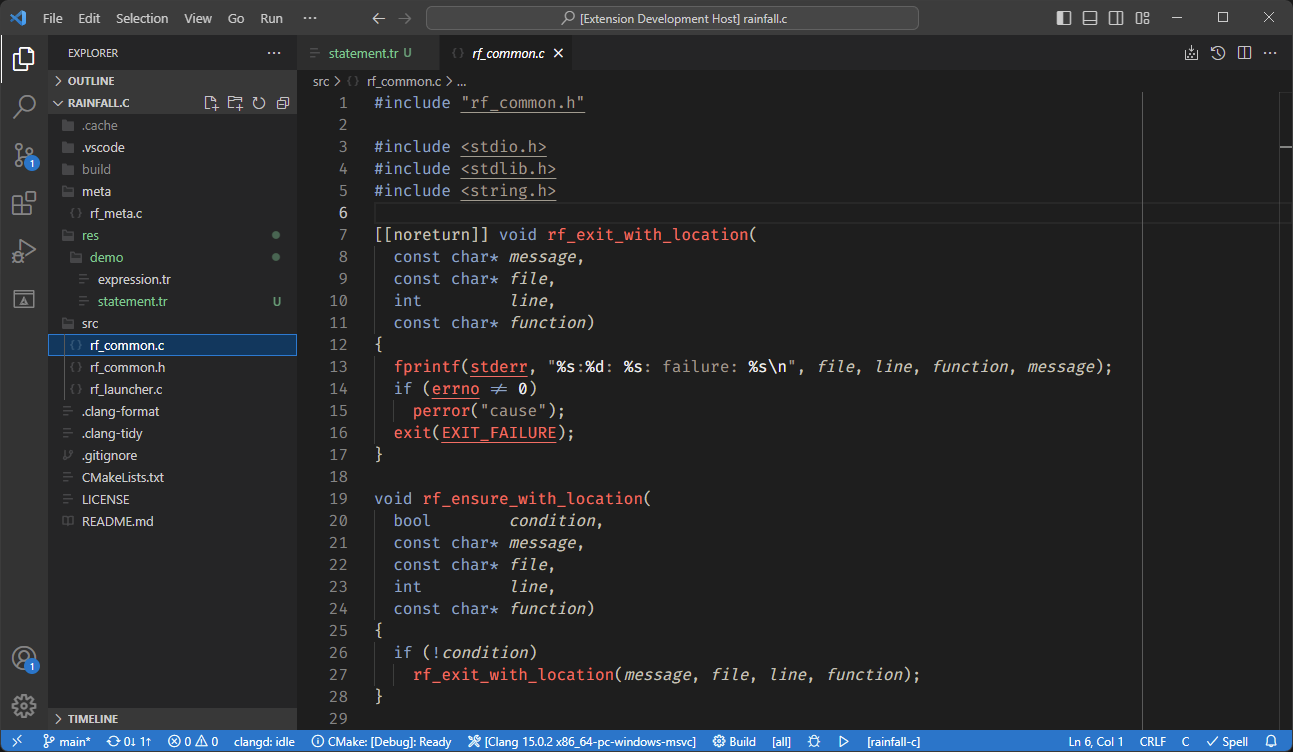
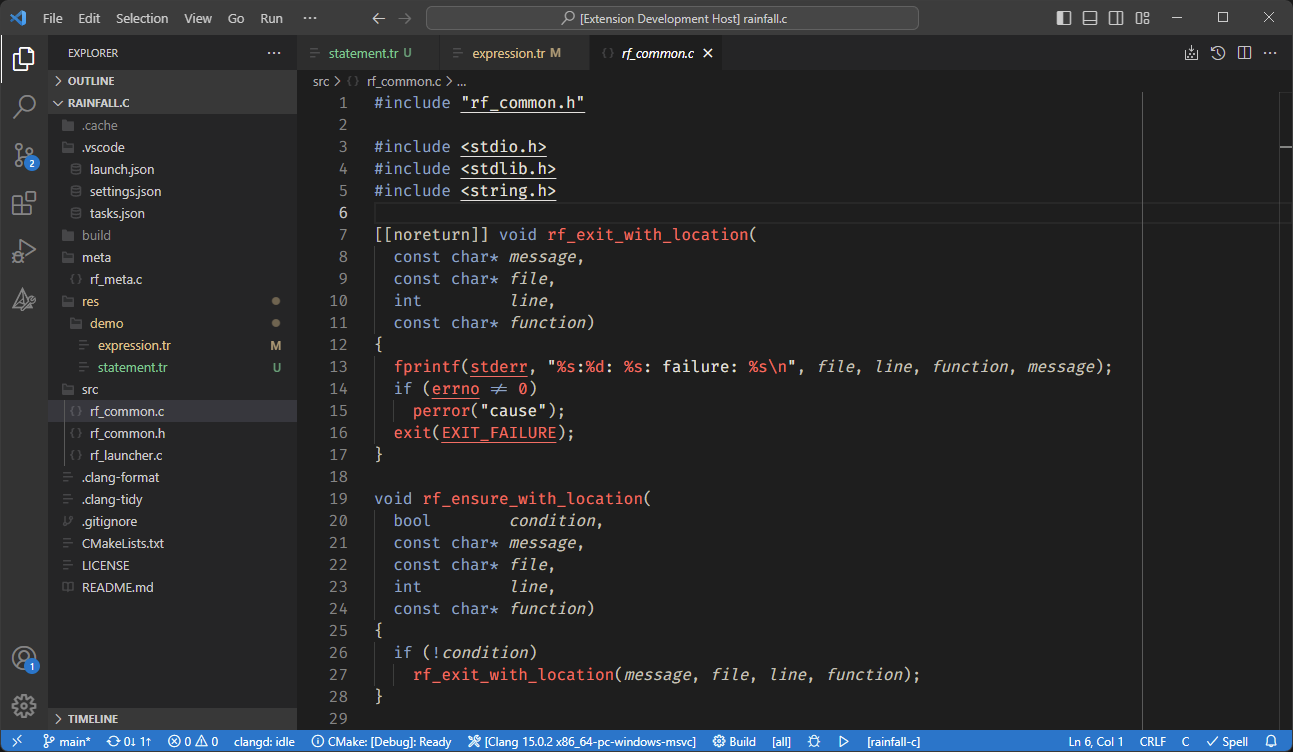
update: Screenshots

diff --git a/CHANGELOG.md b/CHANGELOG.md
@@ -1,5 +1,9 @@
 # Change Log
 
+## [0.0.5]
+
+- Updated screenshots.
+
 ## [0.0.4]
 
 - Fixed changelog.
